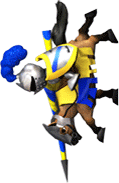
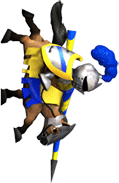
人马攻击者

diff --git a/Classes/AppDelegate.cpp b/Classes/AppDelegate.cpp
@@ -61,9 +61,9 @@ bool AppDelegate::applicationDidFinishLaunching() {
 	auto glview = director->getOpenGLView();
 	if (!glview) {
 #if (CC_TARGET_PLATFORM == CC_PLATFORM_WIN32) || (CC_TARGET_PLATFORM == CC_PLATFORM_MAC) || (CC_TARGET_PLATFORM == CC_PLATFORM_LINUX)
-		glview = GLViewImpl::createWithRect("NinJump", cocos2d::Rect(0, 0, designResolutionSize.width, designResolutionSize.height));
+		glview = GLViewImpl::createWithRect("Miner", cocos2d::Rect(0, 0, designResolutionSize.width, designResolutionSize.height));
 #else
-		glview = GLViewImpl::create("NinJump");
+		glview = GLViewImpl::create("miner");
 #endif
 		director->setOpenGLView(glview);
 	}

diff --git a/Classes/GameScene.h b/Classes/GameScene.h
@@ -28,7 +28,9 @@ public:
 
 	void onTouchEnded(Touch * touch, Event * event);
 
-	void attackPlayer();
+	void birdAttackPlayer();
+
+	void cavalryAttackPlayer();
 
 	CREATE_FUNC(GameScene);
 
